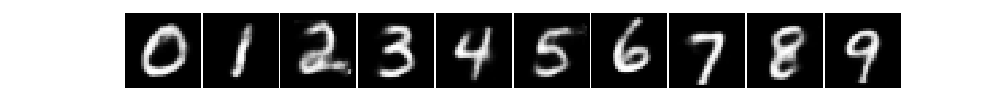
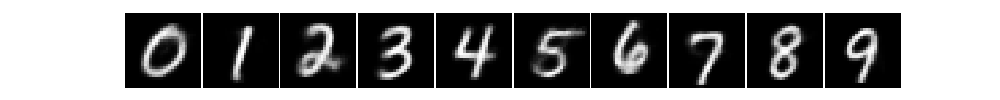
new image

diff --git a/ae_classifier.py b/ae_classifier.py
@@ -30,7 +30,7 @@ if args['model'] == 'flatten':
 	ae_model = Flatten_AE(INPUT_SIZE, LATENT_SIZE)
 elif args['model'] == 'cnn':
 	ae_model = CNN_AE(INPUT_SIZE, LATENT_SIZE, IMG_SIZE)
-	EPOCHS = 20
+	EPOCHS = 50
 	BATCH_SIZE = 64
 
 ae_model.ae.compile(optimizer='adam',
